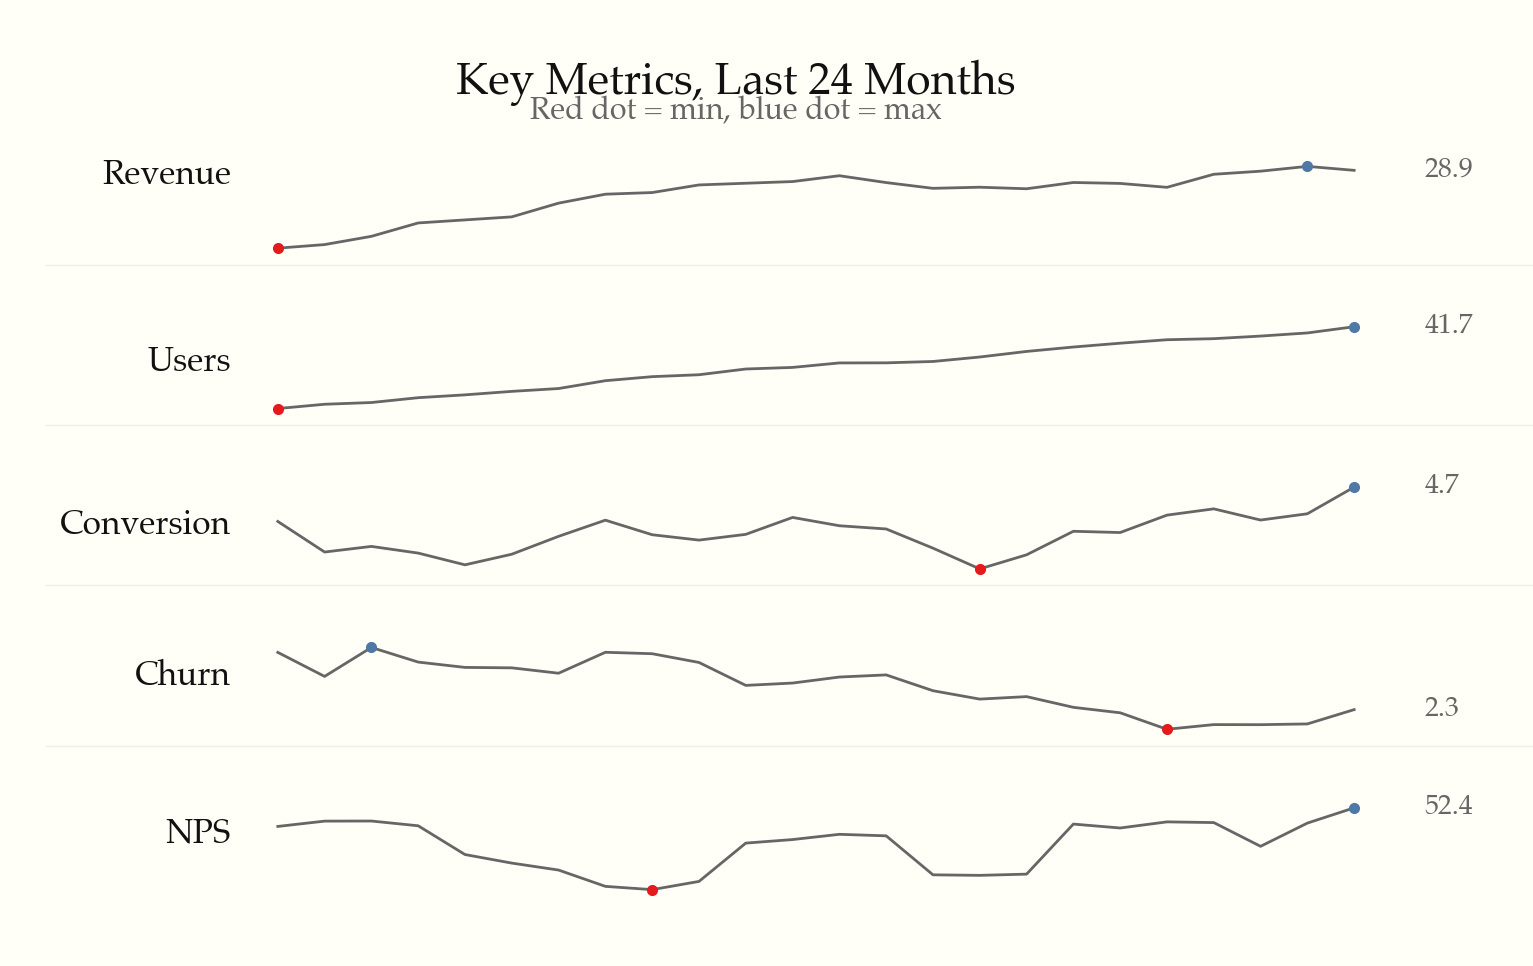
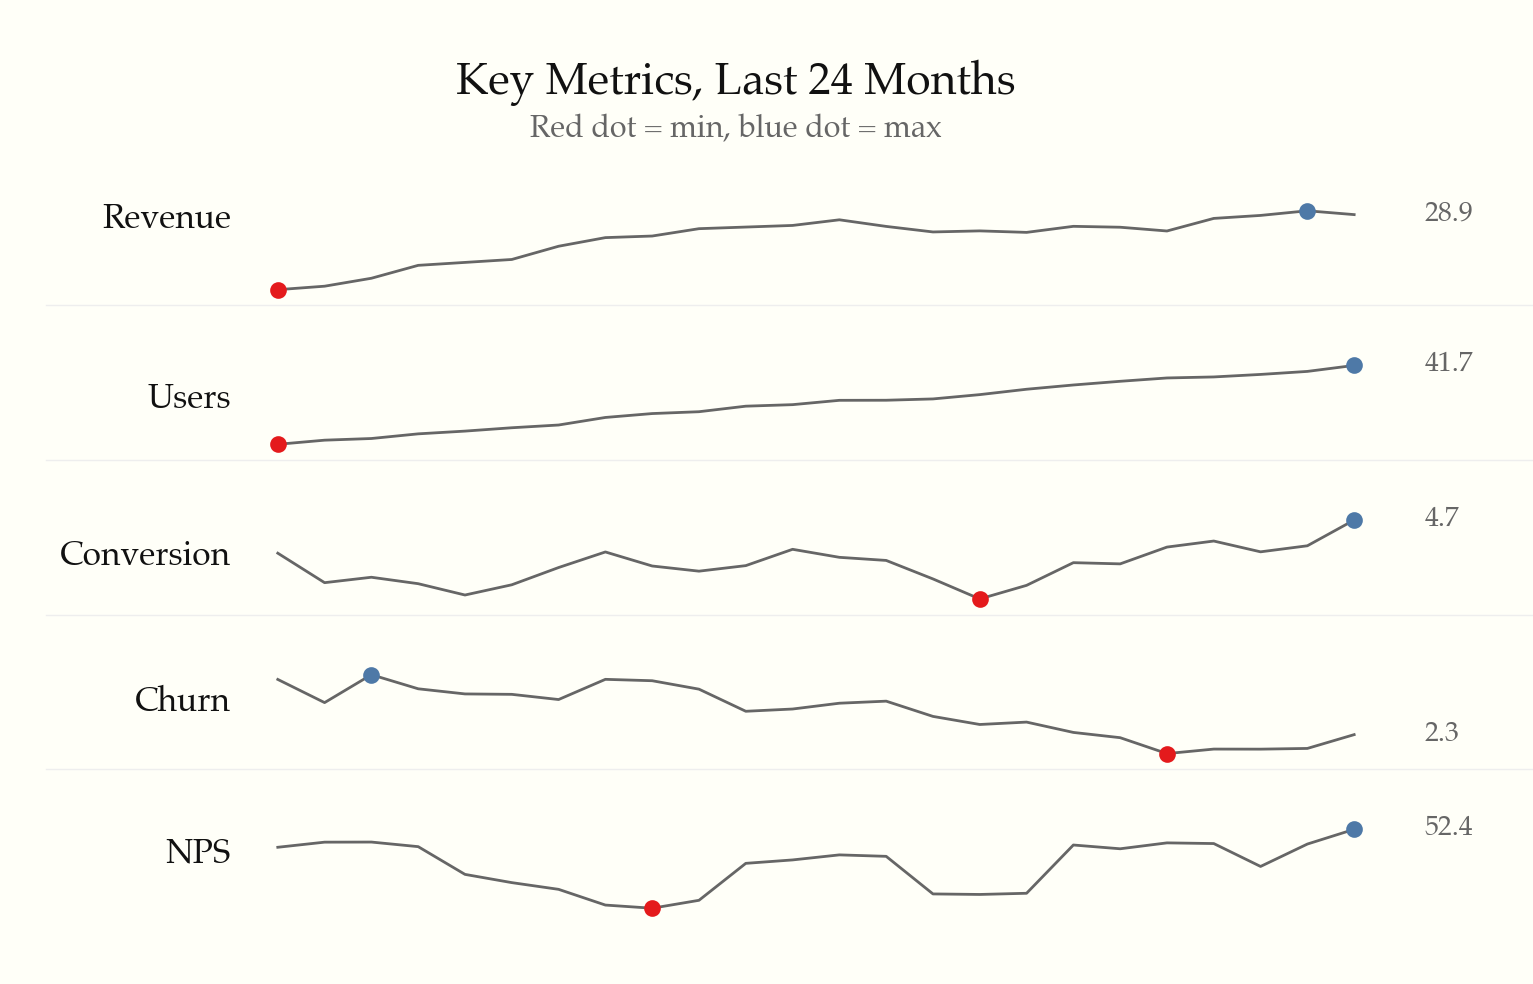
Add opinionated disclaimer, fix sparkline spacing and dot sizes
- Add "Fair warning" section to README about opinionated design
- Increase sparkline min/max dots from 3px to 5px for visibility
- Add more spacing between sparklines title and subtitle

diff --git a/_docs/generate_showcase.py b/_docs/generate_showcase.py
@@ -478,8 +478,8 @@ for i, (name, data) in enumerate(metrics.items()):
 
     # Min/max dots
     imin, imax = np.argmin(data), np.argmax(data)
-    ax.plot(imin, data[imin], "o", color=C["highlight"], markersize=3)
-    ax.plot(imax, data[imax], "o", color=C["cat"][0], markersize=3)
+    ax.plot(imin, data[imin], "o", color=C["highlight"], markersize=5)
+    ax.plot(imax, data[imax], "o", color=C["cat"][0], markersize=5)
 
     # Endpoint value
     ax.text(len(data) + 0.5, data[-1], f"{data[-1]:.1f}",
@@ -501,14 +501,14 @@ for i, (name, data) in enumerate(metrics.items()):
         ax.axhline(y=ax.get_ylim()[0], color="#eeeeee", linewidth=0.5,
                    xmin=-0.15, xmax=1.15, clip_on=False)
 
-fig.text(0.5, 0.98, "Key Metrics, Last 24 Months",
+fig.text(0.5, 1.0, "Key Metrics, Last 24 Months",
          fontsize=16, fontfamily="serif", color=C["text"], ha="center", va="top")
 fig.text(0.5, 0.94, "Red dot = min, blue dot = max",
          fontsize=11, fontfamily="serif", color=C["text2"], ha="center", va="top")
 
 fig.patch.set_facecolor("#fffff8")
 plt.tight_layout()
-plt.subplots_adjust(top=0.88, left=0.18, right=0.92, hspace=0.4)
+plt.subplots_adjust(top=0.85, left=0.18, right=0.92, hspace=0.4)
 plt.savefig("/Users/ranman/dev/caylent/tufte-data-viz/_docs/tufte-sparklines.png")
 plt.close()
 

diff --git a/README.md b/README.md
@@ -2,6 +2,10 @@
 
 An agent skill that applies [Edward Tufte's](https://www.edwardtufte.com/) data visualization principles when generating charts, plots, and graphs. Produces clean, honest, high-data-ink-ratio visualizations across multiple charting libraries — extended with modern screen-first standards for accessibility, responsiveness, and interactivity.
 
+## Fair warning
+
+This skill is **opinionated by design**. It will remove your gridlines, delete your legends, reject your pie charts, and insist on serif fonts. It enforces a specific visual philosophy — Tufte's — not a neutral one. If you want total creative freedom over your chart styling, this is not the skill for you. If you want every chart to come out clean, honest, and readable without thinking about it, read on.
+
 ## Install
 
 ```bash
